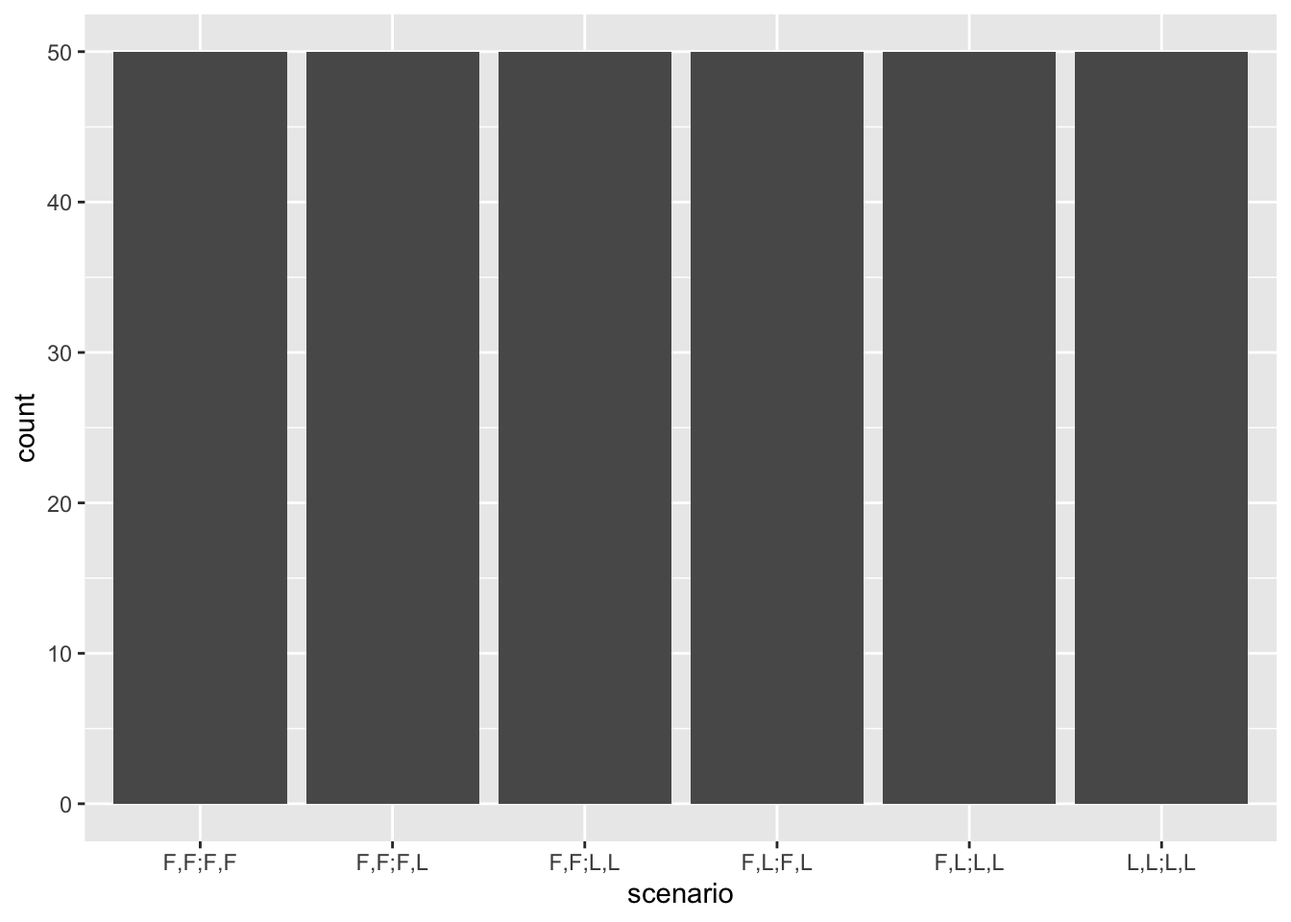
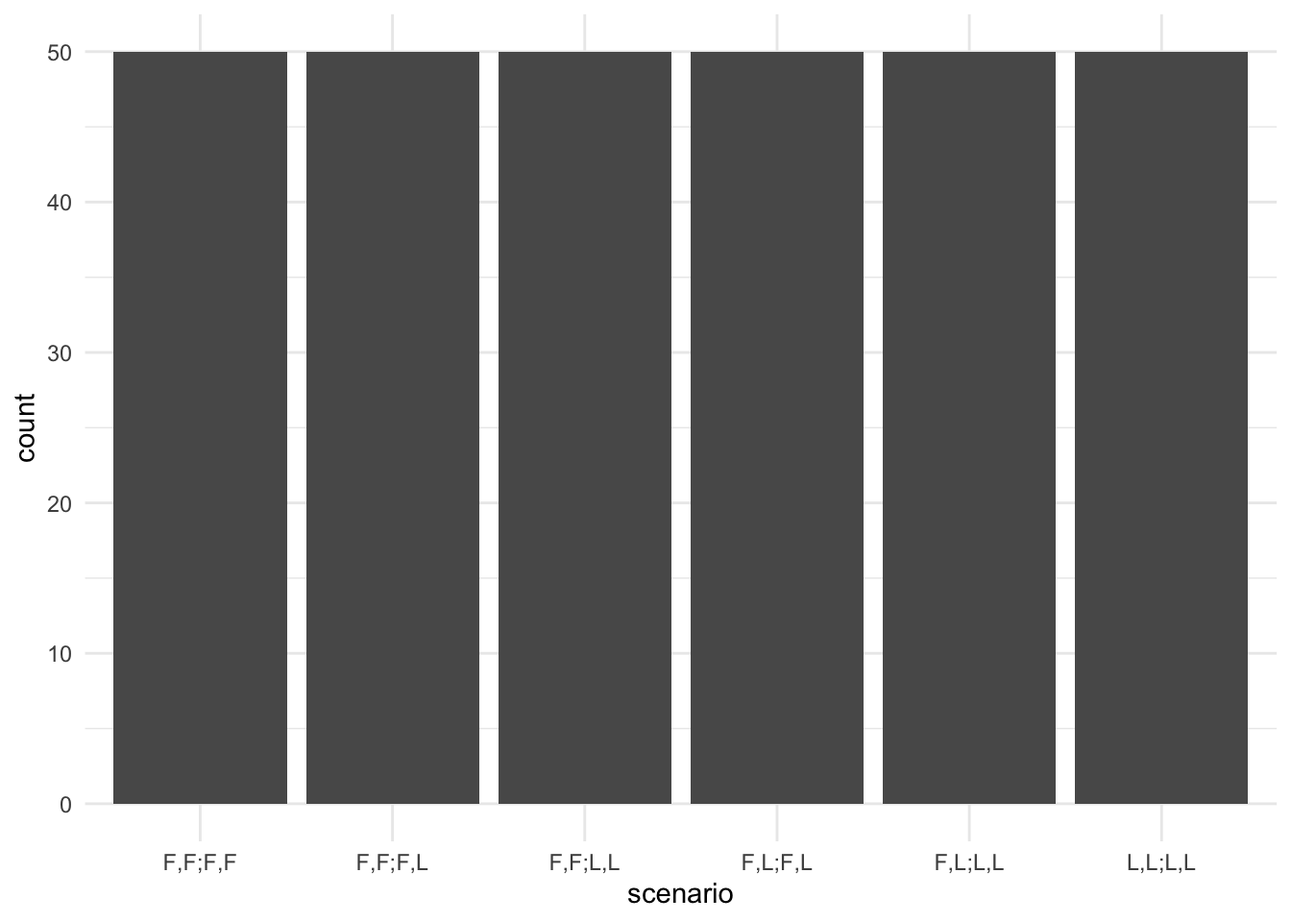
clean writeup renders a bit more, standardizing figure labels

Changed region(s): [[0.0625, 0.0, 1.0, 0.9375]]

diff --git a/_output/writeup/index.html b/_output/writeup/index.html
@@ -333,7 +333,7 @@ Presentation accompanying this report: <a href="https://psyc-201.github.io/xiang
 <span id="cb1-27"><a href="#cb1-27" aria-hidden="true" tabindex="-1"></a>original.cohensd <span class="ot">&lt;-</span> effectsize<span class="sc">::</span><span class="fu">effectsize</span>(original.ttest_result)</span></code></pre></div><button title="Copy to Clipboard" class="code-copy-button"><i class="bi"></i></button></div>
 </details>
 </div>
-<p>The original effect size is <em>d</em> = 1.47. <!-- d = 1.47 --> To achieve 80%, 90%, or 95% power to detect that effect size, I needed:</p>
+<p>The original effect size is <span class="math inline">\(d = 1.47\)</span>. <!-- d = 1.47 --> To achieve 80%, 90%, or 95% power to detect that effect size, I needed:</p>
 <table class="caption-top table">
 <thead>
 <tr class="header">
@@ -361,8 +361,8 @@ Presentation accompanying this report: <a href="https://psyc-201.github.io/xiang
 </tbody>
 </table>
 <p>Collecting 9 participants was completely feasible (with each spending ~16 minutes; see <a href="#procedure">Procedure</a>). To compensate for the original study’s measured effect size being inflated (e.g., due to publication bias), 15 participants would be necessary for sufficient power for the primary effect of interest, and this count was also feasible.</p>
-<p>However, for the sake of qualitatively replicating the overall pattern of estimated probabilities increasing as scenarios feature more successful individual lifts (general increase in probability from left to right in Figure 3C; which I’ve labeled “B” above), and that the joint effort model is the only considered model which captures both the key effect and this pattern, I found it prudent to retain the same sample size so that I might attempt to replicate the original qualitative finding with comparable precision. (Targeting higher precision could potentially counter aforementioned effect inflation present in the original paper, but as it is unclear how to quantify the necessary precision for these qualitative analyses, targeting the original precision appears to be a sensible option.)</p>
-<p>Further, in the original study, given 50 participants, the key effect appeared quite robust, with the CI for the data from scenario “F,F;F,F” being quite far from the line LiftProbability=0 (see <a href="#fig-original-3C" class="quarto-xref">Figure&nbsp;1</a>), suggesting that with 50 participants, I was nearly guaranteed to replicate this effect if it is true.</p>
+<p>However, for the sake of qualitatively replicating the overall pattern of estimated probabilities increasing as scenarios feature more successful individual lifts (general increase in probability from left to right in <a href="#fig-original-3C" class="quarto-xref">Figure&nbsp;2</a>; which I’ve labeled “B” above), and that the joint effort model is the only considered model which captures both the key effect and this pattern, I found it prudent to retain the same sample size so that I might attempt to replicate the original qualitative finding with comparable precision. (Targeting higher precision could potentially counter aforementioned effect inflation present in the original paper, but as it is unclear how to quantify the necessary precision for these qualitative analyses, targeting the original precision appears to be a sensible option.)</p>
+<p>Further, in the original study, given 50 participants, the key effect appeared quite robust, with the CI for the data from scenario “F,F;F,F” being quite far from the line LiftProbability=0 (see <a href="#fig-original-3C" class="quarto-xref">Figure&nbsp;2</a>), suggesting that with 50 participants, I was nearly guaranteed to replicate this effect if it is true.</p>
 <p>Given my understanding of course funding available, collecting 50 participants was feasible.</p>
 </section>
 <section id="planned-sample" class="level3">
@@ -394,9 +394,9 @@ Presentation accompanying this report: <a href="https://psyc-201.github.io/xiang
 </section>
 <section id="analysis-plan" class="level3">
 <h3 class="anchored" data-anchor-id="analysis-plan">Analysis Plan</h3>
-<p>I conducted a <strong>one-sample <em>t</em> test on the participants’ reported round-3 lift probability for scenario “F,F;F,F”</strong> (i.e., each contestant failed to lift the box in both rounds 2 and 3), with the null hypothesis that the true lift probability is zero. See Planned Sample for the data exclusion rule.</p>
+<p>I conducted a <strong>one-sample <span class="math inline">\(t\)</span> test on the participants’ reported round-3 lift probability for scenario “F,F;F,F”</strong> (i.e., each contestant failed to lift the box in both rounds 2 and 3), with the null hypothesis that the true lift probability is zero. See Planned Sample for the data exclusion rule.</p>
 <p>In addition to this confirmatory analysis, I would attempt to replicate the qualitative pattern that participants judge higher probability of joint success as cases of individual success increases. I would also reimplement their proposed model (joint effort) and alternative models (solitary effort and compensatory effort) in <a href="https://github.com/kach/memo">memo</a> <span class="citation" data-cites="chandra2025memo">(<a href="#ref-chandra2025memo" role="doc-biblioref">Chandra et al., 2025</a>)</span> (see <a href="#differences-from-original-study">Differences from Original Study</a>) and attempt to replicate that the proposed model is the only model evaluated which predicts both the qualitative pattern and the other result (that participants estimate round-3 lift probability as non-zero after two rounds of failures). See original paper’s Figure 3C and accompanying explanation, pp.&nbsp;1570-1571; I would recreate that figure and attempt to replicate that explanation on my own data. Further, I would also estimate and statistically test the difference in the probability judgments plotted in Figure 3C between the original data and my new data.</p>
-<p>I must note that while the <em>t</em> test alone does not justify the paper’s central claim that the joint effort model is qualitatively predictive, in the absence one such statistical test, this <em>t</em> test is a good alternative: this test demonstrates one of two key behavioral effects (p.&nbsp;1570) which the model was qualitatively evaluated to predict. (In other words, I should attempt to replicate this behavioral effect before I could try to qualitatively replicate that the joint effort model is the only considered model which can predict it.)</p>
+<p>I must note that while the <span class="math inline">\(t\)</span> test alone does not justify the paper’s central claim that the joint effort model is qualitatively predictive, in the absence one such statistical test, this <span class="math inline">\(t\)</span> test is a good alternative: this test demonstrates one of two key behavioral effects (p.&nbsp;1570) which the model was qualitatively evaluated to predict. (In other words, I should attempt to replicate this behavioral effect before I could try to qualitatively replicate that the joint effort model is the only considered model which can predict it.)</p>
 </section>
 <section id="differences-from-original-study" class="level3">
 <h3 class="anchored" data-anchor-id="differences-from-original-study">Differences from Original Study</h3>
@@ -407,7 +407,7 @@ Presentation accompanying this report: <a href="https://psyc-201.github.io/xiang
 <li>The consent form is updated according to the details provided by the UCSD course PSYC 201A</li>
 <li>In task instructions, “HIT” is renamed “submission”</li>
 <li>In task instructions, “Different pairs of contestants will come in to lift the box” becomes “For each contest, a new pair of contestants will come in to lift the box” (to clarify first two questions of comprehension check)</li>
-<li>See <a href="#sec-method-changes" class="quarto-xref">Section&nbsp;2.8.2</a> for an additional change</li>
+<li>See <a href="#differences-from-pre-data-collection-methods-plan">Differences from pre-data collection methods plan</a> for an additional change</li>
 </ol>
 <p>While the confirmatory analysis was rerun using the original R code provided by the authors, for the qualitative replication I used a reimplementation of the joint effort model and the alternative models (solitary effort and compensatory effort models) in <a href="https://github.com/kach/memo">memo</a> <span class="citation" data-cites="chandra2025memo">(<a href="#ref-chandra2025memo" role="doc-biblioref">Chandra et al., 2025</a>)</span>, based on the authors’ original implementations in WebPPL. I expected that reimplementation of the continuous probabilistic models in WebPPL as discrete probabilistic models in memo would produce higher estimate precision as the model predictions will be deterministic, rather than stochastic. (I also discretized the distribution at a high resolution such that there was no meaningful systematic difference in estimates.)</p>
 <p>I did not anticipate that these differences are meaningful regarding the original paper’s claims and the analyses of interest. However, it is possible that 3 and 4 - improving comprehension-check fairness and reducing testing fatigue - may slightly improve measurement precision and reduce measurement bias, enhancing the claims of my replication.</p>
@@ -426,8 +426,8 @@ Presentation accompanying this report: <a href="https://psyc-201.github.io/xiang
 <p>On Prolific there were 51 participants collected, not 50, since one returned the study but was also approved (since they returned the study, it opened up the slot again). However, we only have 50 participants’ data, since one participant’s data (prolificId starting with 5c6) wasn’t recorded; I think they didn’t press “Next” at the very end of the study, which is necessary to save the data. (In any future iterations, saving should happen before the completion code is given.)</p>
 <p>Demographic information was not collected. By design of the experiment, participants who failed the comprehension check twice were excluded (see below). Following the planned data exclusion rule, 0 <!-- excluded_for_2inattention --> participants were excluded for failing both attention checks. A total of 10 <!-- kept_despite_1inattention --> participants failed one attention check, and we did not exclude their data in our analysis.</p>
 </section>
-<section id="sec-method-changes" class="level4">
-<h4 class="anchored" data-anchor-id="sec-method-changes">Differences from pre-data collection methods plan</h4>
+<section id="differences-from-pre-data-collection-methods-plan" class="level4">
+<h4 class="anchored" data-anchor-id="differences-from-pre-data-collection-methods-plan">Differences from pre-data collection methods plan</h4>
 <p>After piloting, to align with <a href="https://researcher-help.prolific.com/en/articles/445153-prolific-s-attention-and-comprehension-check-policy">Prolific’s guidelines</a>, I modified the task such that no more than two attempts of the comprehension check were allowed. Participants who failed the comprehension check twice were asked to return the submission. Accordingly, before the comprehension check, I added: “You will have two chances to complete the comprehension questions correctly before we ask you to return your submission, per Prolific guidelines.”; and upon comprehension check failure, I added: “Please note that you have only X attempt(s) left.”</p>
 <p>Unless marked otherwise, all results used only the sample collected after this change was made.</p>
 </section>
@@ -774,7 +774,7 @@ Presentation accompanying this report: <a href="https://psyc-201.github.io/xiang
 <span id="cb24-3"><a href="#cb24-3" aria-hidden="true" tabindex="-1"></a>  <span class="fu">filter</span>(agent <span class="sc">==</span> <span class="dv">1</span>, round <span class="sc">==</span> <span class="dv">3</span>) <span class="sc">%&gt;%</span></span>
 <span id="cb24-4"><a href="#cb24-4" aria-hidden="true" tabindex="-1"></a>  <span class="fu">ggplot</span>(<span class="fu">aes</span>(<span class="at">x =</span> scenario, <span class="at">y =</span> contest)) <span class="sc">+</span></span>
 <span id="cb24-5"><a href="#cb24-5" aria-hidden="true" tabindex="-1"></a>  <span class="fu">geom_jitter</span>(<span class="fu">aes</span>(<span class="at">color =</span> subject), <span class="at">width=</span>.<span class="dv">1</span>, <span class="at">height=</span>.<span class="dv">1</span>) <span class="sc">+</span></span>
-<span id="cb24-6"><a href="#cb24-6" aria-hidden="true" tabindex="-1"></a>  <span class="fu">theme</span>(<span class="at">legend.position =</span> <span class="st">"none"</span>)</span></code></pre></div><button title="Copy to Clipboard" class="code-copy-button"><i class="bi"></i></button></div>
+<span id="cb24-6"><a href="#cb24-6" aria-hidden="true" tabindex="-1"></a>  <span class="fu">theme_minimal</span>() <span class="sc">+</span> <span class="fu">theme</span>(<span class="at">legend.position =</span> <span class="st">"none"</span>)</span></code></pre></div><button title="Copy to Clipboard" class="code-copy-button"><i class="bi"></i></button></div>
 </details>
 <div class="cell-output-display">
 <div>
@@ -796,7 +796,7 @@ Presentation accompanying this report: <a href="https://psyc-201.github.io/xiang
 <span id="cb27-2"><a href="#cb27-2" aria-hidden="true" tabindex="-1"></a>  <span class="fu">filter</span>(agent <span class="sc">==</span> <span class="dv">1</span>, round <span class="sc">==</span> <span class="dv">3</span>) <span class="sc">%&gt;%</span></span>
 <span id="cb27-3"><a href="#cb27-3" aria-hidden="true" tabindex="-1"></a>  <span class="fu">ggplot</span>(<span class="fu">aes</span>(<span class="at">x =</span> scenario)) <span class="sc">+</span></span>
 <span id="cb27-4"><a href="#cb27-4" aria-hidden="true" tabindex="-1"></a>  <span class="fu">geom_col</span>(<span class="at">stat=</span><span class="st">"count"</span>) <span class="sc">+</span></span>
-<span id="cb27-5"><a href="#cb27-5" aria-hidden="true" tabindex="-1"></a>  <span class="fu">theme</span>(<span class="at">legend.position =</span> <span class="st">"none"</span>)</span></code></pre></div><button title="Copy to Clipboard" class="code-copy-button"><i class="bi"></i></button></div>
+<span id="cb27-5"><a href="#cb27-5" aria-hidden="true" tabindex="-1"></a>  <span class="fu">theme_minimal</span>() <span class="sc">+</span> <span class="fu">theme</span>(<span class="at">legend.position =</span> <span class="st">"none"</span>)</span></code></pre></div><button title="Copy to Clipboard" class="code-copy-button"><i class="bi"></i></button></div>
 </details>
 <div class="cell-output-display">
 <div>
@@ -819,7 +819,7 @@ Presentation accompanying this report: <a href="https://psyc-201.github.io/xiang
 <span id="cb30-3"><a href="#cb30-3" aria-hidden="true" tabindex="-1"></a>  <span class="fu">mutate</span>(<span class="at">contest =</span> <span class="fu">factor</span>(contest)) <span class="sc">%&gt;%</span></span>
 <span id="cb30-4"><a href="#cb30-4" aria-hidden="true" tabindex="-1"></a>  <span class="fu">ggplot</span>(<span class="fu">aes</span>(<span class="at">x =</span> contest)) <span class="sc">+</span></span>
 <span id="cb30-5"><a href="#cb30-5" aria-hidden="true" tabindex="-1"></a>  <span class="fu">geom_col</span>(<span class="at">stat=</span><span class="st">"count"</span>) <span class="sc">+</span></span>
-<span id="cb30-6"><a href="#cb30-6" aria-hidden="true" tabindex="-1"></a>  <span class="fu">theme</span>(<span class="at">legend.position =</span> <span class="st">"none"</span>)</span></code></pre></div><button title="Copy to Clipboard" class="code-copy-button"><i class="bi"></i></button></div>
+<span id="cb30-6"><a href="#cb30-6" aria-hidden="true" tabindex="-1"></a>  <span class="fu">theme_minimal</span>() <span class="sc">+</span> <span class="fu">theme</span>(<span class="at">legend.position =</span> <span class="st">"none"</span>)</span></code></pre></div><button title="Copy to Clipboard" class="code-copy-button"><i class="bi"></i></button></div>
 </details>
 <div class="cell-output-display">
 <div>
@@ -838,12 +838,12 @@ Presentation accompanying this report: <a href="https://psyc-201.github.io/xiang
 <details class="code-fold">
 <summary>Code</summary>
 <div class="code-copy-outer-scaffold"><div class="sourceCode cell-code" id="cb33"><pre class="sourceCode r code-with-copy"><code class="sourceCode r"><span id="cb33-1"><a href="#cb33-1" aria-hidden="true" tabindex="-1"></a>dat_clean <span class="sc">%&gt;%</span></span>
-<span id="cb33-2"><a href="#cb33-2" aria-hidden="true" tabindex="-1"></a>  <span class="fu">mutate</span>(<span class="at">round =</span> <span class="fu">factor</span>(round)) <span class="sc">%&gt;%</span></span>
+<span id="cb33-2"><a href="#cb33-2" aria-hidden="true" tabindex="-1"></a>  <span class="fu">mutate</span>(<span class="at">round =</span> <span class="fu">factor</span>(round), <span class="at">agent =</span> <span class="fu">factor</span>(agent, <span class="at">labels=</span><span class="fu">c</span>(<span class="st">"Agent A"</span>, <span class="st">"Agent B"</span>))) <span class="sc">%&gt;%</span></span>
 <span id="cb33-3"><a href="#cb33-3" aria-hidden="true" tabindex="-1"></a>  <span class="fu">ggplot</span>(<span class="fu">aes</span>(<span class="at">x =</span> round, <span class="at">y=</span>effort, <span class="at">color=</span>subject, <span class="at">group=</span><span class="dv">1</span>)) <span class="sc">+</span> <span class="co"># set group since needed for geom_smooth to connect across the factor-type x=round</span></span>
 <span id="cb33-4"><a href="#cb33-4" aria-hidden="true" tabindex="-1"></a>  <span class="fu">geom_point</span>() <span class="sc">+</span> <span class="fu">geom_line</span>(<span class="fu">aes</span>(<span class="at">group=</span>subject)) <span class="sc">+</span></span>
 <span id="cb33-5"><a href="#cb33-5" aria-hidden="true" tabindex="-1"></a>  <span class="fu">geom_smooth</span>(<span class="at">method=</span>lm, <span class="at">se=</span>F, <span class="at">color=</span><span class="st">"black"</span>) <span class="sc">+</span></span>
 <span id="cb33-6"><a href="#cb33-6" aria-hidden="true" tabindex="-1"></a>  <span class="fu">facet_wrap</span>(scenario<span class="sc">~</span>agent) <span class="sc">+</span></span>
-<span id="cb33-7"><a href="#cb33-7" aria-hidden="true" tabindex="-1"></a>  <span class="fu">theme</span>(<span class="at">legend.position =</span> <span class="st">"none"</span>)</span></code></pre></div><button title="Copy to Clipboard" class="code-copy-button"><i class="bi"></i></button></div>
+<span id="cb33-7"><a href="#cb33-7" aria-hidden="true" tabindex="-1"></a>  <span class="fu">theme_minimal</span>() <span class="sc">+</span> <span class="fu">theme</span>(<span class="at">legend.position =</span> <span class="st">"none"</span>)</span></code></pre></div><button title="Copy to Clipboard" class="code-copy-button"><i class="bi"></i></button></div>
 </details>
 <div class="cell-output cell-output-stderr">
 <pre><code>`geom_smooth()` using formula = 'y ~ x'</code></pre>
@@ -870,12 +870,12 @@ Presentation accompanying this report: <a href="https://psyc-201.github.io/xiang
 <details class="code-fold">
 <summary>Code</summary>
 <div class="code-copy-outer-scaffold"><div class="sourceCode cell-code" id="cb38"><pre class="sourceCode r code-with-copy"><code class="sourceCode r"><span id="cb38-1"><a href="#cb38-1" aria-hidden="true" tabindex="-1"></a>dat_clean <span class="sc">%&gt;%</span></span>
-<span id="cb38-2"><a href="#cb38-2" aria-hidden="true" tabindex="-1"></a>  <span class="fu">mutate</span>(<span class="at">round =</span> <span class="fu">factor</span>(round)) <span class="sc">%&gt;%</span></span>
+<span id="cb38-2"><a href="#cb38-2" aria-hidden="true" tabindex="-1"></a>  <span class="fu">mutate</span>(<span class="at">round =</span> <span class="fu">factor</span>(round), <span class="at">agent =</span> <span class="fu">factor</span>(agent, <span class="at">labels=</span><span class="fu">c</span>(<span class="st">"Agent A"</span>, <span class="st">"Agent B"</span>))) <span class="sc">%&gt;%</span></span>
 <span id="cb38-3"><a href="#cb38-3" aria-hidden="true" tabindex="-1"></a>  <span class="fu">ggplot</span>(<span class="fu">aes</span>(<span class="at">x =</span> round, <span class="at">y=</span>strength, <span class="at">color=</span>subject, <span class="at">group=</span><span class="dv">1</span>)) <span class="sc">+</span></span>
 <span id="cb38-4"><a href="#cb38-4" aria-hidden="true" tabindex="-1"></a>  <span class="fu">geom_point</span>() <span class="sc">+</span> <span class="fu">geom_line</span>(<span class="fu">aes</span>(<span class="at">group=</span>subject)) <span class="sc">+</span></span>
 <span id="cb38-5"><a href="#cb38-5" aria-hidden="true" tabindex="-1"></a>  <span class="fu">geom_smooth</span>(<span class="at">method=</span>lm, <span class="at">se=</span>F, <span class="at">color=</span><span class="st">"black"</span>) <span class="sc">+</span></span>
 <span id="cb38-6"><a href="#cb38-6" aria-hidden="true" tabindex="-1"></a>  <span class="fu">facet_wrap</span>(scenario<span class="sc">~</span>agent) <span class="sc">+</span></span>
-<span id="cb38-7"><a href="#cb38-7" aria-hidden="true" tabindex="-1"></a>  <span class="fu">theme</span>(<span class="at">legend.position =</span> <span class="st">"none"</span>)</span></code></pre></div><button title="Copy to Clipboard" class="code-copy-button"><i class="bi"></i></button></div>
+<span id="cb38-7"><a href="#cb38-7" aria-hidden="true" tabindex="-1"></a>  <span class="fu">theme_minimal</span>() <span class="sc">+</span> <span class="fu">theme</span>(<span class="at">legend.position =</span> <span class="st">"none"</span>)</span></code></pre></div><button title="Copy to Clipboard" class="code-copy-button"><i class="bi"></i></button></div>
 </details>
 <div class="cell-output cell-output-stderr">
 <pre><code>`geom_smooth()` using formula = 'y ~ x'</code></pre>
@@ -890,12 +890,12 @@ Presentation accompanying this report: <a href="https://psyc-201.github.io/xiang
 <details class="code-fold">
 <summary>Code</summary>
 <div class="code-copy-outer-scaffold"><div class="sourceCode cell-code" id="cb40"><pre class="sourceCode r code-with-copy"><code class="sourceCode r"><span id="cb40-1"><a href="#cb40-1" aria-hidden="true" tabindex="-1"></a>dat_clean <span class="sc">%&gt;%</span></span>
-<span id="cb40-2"><a href="#cb40-2" aria-hidden="true" tabindex="-1"></a>  <span class="fu">mutate</span>(<span class="at">round =</span> <span class="fu">factor</span>(round)) <span class="sc">%&gt;%</span></span>
+<span id="cb40-2"><a href="#cb40-2" aria-hidden="true" tabindex="-1"></a>  <span class="fu">mutate</span>(<span class="at">round =</span> <span class="fu">factor</span>(round), <span class="at">agent =</span> <span class="fu">factor</span>(agent, <span class="at">labels=</span><span class="fu">c</span>(<span class="st">"Agent A"</span>, <span class="st">"Agent B"</span>))) <span class="sc">%&gt;%</span></span>
 <span id="cb40-3"><a href="#cb40-3" aria-hidden="true" tabindex="-1"></a>  <span class="fu">ggplot</span>(<span class="fu">aes</span>(<span class="at">x =</span> round, <span class="at">y=</span>prob, <span class="at">color=</span>subject, <span class="at">group=</span><span class="dv">1</span>)) <span class="sc">+</span></span>
 <span id="cb40-4"><a href="#cb40-4" aria-hidden="true" tabindex="-1"></a>  <span class="fu">geom_point</span>() <span class="sc">+</span> <span class="fu">geom_line</span>(<span class="fu">aes</span>(<span class="at">group=</span>subject)) <span class="sc">+</span></span>
 <span id="cb40-5"><a href="#cb40-5" aria-hidden="true" tabindex="-1"></a>  <span class="fu">geom_smooth</span>(<span class="at">method=</span>lm, <span class="at">se=</span>F, <span class="at">color=</span><span class="st">"black"</span>) <span class="sc">+</span></span>
 <span id="cb40-6"><a href="#cb40-6" aria-hidden="true" tabindex="-1"></a>  <span class="fu">facet_wrap</span>(scenario<span class="sc">~</span>agent) <span class="sc">+</span></span>
-<span id="cb40-7"><a href="#cb40-7" aria-hidden="true" tabindex="-1"></a>  <span class="fu">theme</span>(<span class="at">legend.position =</span> <span class="st">"none"</span>)</span></code></pre></div><button title="Copy to Clipboard" class="code-copy-button"><i class="bi"></i></button></div>
+<span id="cb40-7"><a href="#cb40-7" aria-hidden="true" tabindex="-1"></a>  <span class="fu">theme_minimal</span>() <span class="sc">+</span> <span class="fu">theme</span>(<span class="at">legend.position =</span> <span class="st">"none"</span>)</span></code></pre></div><button title="Copy to Clipboard" class="code-copy-button"><i class="bi"></i></button></div>
 </details>
 <div class="cell-output cell-output-stderr">
 <pre><code>`geom_smooth()` using formula = 'y ~ x'</code></pre>
@@ -1054,8 +1054,7 @@ the `.groups` argument.</code></pre>
 </details>
 </div>
 <p>I found that A) participants rated the probability of joint success in round 3 as non-zero (<span class="math inline">\(M = 43.22\)</span>, 95% CI <span class="math inline">\([33.84, 52.60]\)</span>, <span class="math inline">\(t(49) = 9.26\)</span>, <span class="math inline">\(p &lt; .001\)</span>). See the black point range (data) for scenario “F,F;F,F” under Exploratory analyses.</p>
-<p>The effect size found is <em>d</em> = 1.31.</p>
-<div class="cell">
+<p>The effect size found is <span class="math inline">\(d = 1.31\)</span>.</p>
 <details class="code-fold">
 <summary>Code</summary>
 <div class="code-copy-outer-scaffold"><div class="sourceCode cell-code" id="cb57"><pre class="sourceCode r code-with-copy"><code class="sourceCode r"><span id="cb57-1"><a href="#cb57-1" aria-hidden="true" tabindex="-1"></a><span class="co"># dat$prob[dat$round == 3 &amp; dat$scenario == 'F,F;F,F' &amp; dat$agent == 'A']</span></span>
@@ -1070,8 +1069,12 @@ the `.groups` argument.</code></pre>
 <span id="cb57-10"><a href="#cb57-10" aria-hidden="true" tabindex="-1"></a>    <span class="fu">geom_histogram</span>(<span class="at">bins=</span><span class="fu">floor</span>(<span class="fu">sqrt</span>(<span class="fu">nrow</span>(.)))) <span class="sc">+</span></span>
 <span id="cb57-11"><a href="#cb57-11" aria-hidden="true" tabindex="-1"></a>    <span class="fu">coord_cartesian</span>(<span class="at">xlim =</span> <span class="fu">c</span>(<span class="dv">0</span>, <span class="dv">100</span>)) <span class="sc">+</span></span>
 <span id="cb57-12"><a href="#cb57-12" aria-hidden="true" tabindex="-1"></a>    <span class="fu">geom_vline</span>(<span class="at">xintercept=</span>critical_tvalue, <span class="at">color=</span><span class="st">'red'</span>) <span class="sc">+</span></span>
-<span id="cb57-13"><a href="#cb57-13" aria-hidden="true" tabindex="-1"></a>    <span class="fu">labs</span>(<span class="at">y=</span><span class="st">'Density'</span>, <span class="at">x=</span><span class="st">'Lift probability in Round 3 (%)'</span>)}</span></code></pre></div><button title="Copy to Clipboard" class="code-copy-button"><i class="bi"></i></button></div>
+<span id="cb57-13"><a href="#cb57-13" aria-hidden="true" tabindex="-1"></a>    <span class="fu">theme_minimal</span>() <span class="sc">+</span> <span class="fu">labs</span>(<span class="at">y=</span><span class="st">'Density'</span>, <span class="at">x=</span><span class="st">'Lift probability in Round 3 (%)'</span>)}</span></code></pre></div><button title="Copy to Clipboard" class="code-copy-button"><i class="bi"></i></button></div>
 </details>
+<div id="fig-replication-effectsize" class="quarto-float quarto-figure quarto-figure-center anchored">
+<figure class="quarto-float quarto-float-fig figure">
+<div aria-describedby="fig-replication-effectsize-caption-0ceaefa1-69ba-4598-a22c-09a6ac19f8ca">
+<div class="cell">
 <div class="cell-output-display">
 <div>
 <figure class="figure">
@@ -1080,7 +1083,12 @@ the `.groups` argument.</code></pre>
 </div>
 </div>
 </div>
-<p>The red line shows the critical t-value for detecting a statistically significant effect with α = 0.05.</p>
+</div>
+<figcaption class="quarto-float-caption-bottom quarto-float-caption quarto-float-fig" id="fig-replication-effectsize-caption-0ceaefa1-69ba-4598-a22c-09a6ac19f8ca">
+Figure&nbsp;1: The red line shows the critical <span class="math inline">\(t\)</span> value for detecting a statistically significant effect with <span class="math inline">\(\alpha = 0.05\)</span>.
+</figcaption>
+</figure>
+</div>
 </section>
 <section id="exploratory-analyses" class="level3">
 <h3 class="anchored" data-anchor-id="exploratory-analyses">Exploratory analyses</h3>
@@ -1199,15 +1207,19 @@ the `.groups` argument.</code></pre>
 <img src="./original-fig3c.png" class="img-fluid figure-img">
 </div>
 <figcaption class="quarto-float-caption-bottom quarto-float-caption quarto-float-fig" id="fig-original-3C-caption-0ceaefa1-69ba-4598-a22c-09a6ac19f8ca">
-Figure&nbsp;1: <strong>Original (Figure 3C)</strong>. “Model simulations averaged over 10 runs. Error bars indicate bootstrapped 95% confidence intervals.” (p.&nbsp;1571) Regenerated error bars using a fixed seed.
+Figure&nbsp;2: <strong>Original (Figure 3C)</strong>. “Model simulations averaged over 10 runs. Error bars indicate bootstrapped 95% confidence intervals.” (p.&nbsp;1571) Regenerated error bars using a fixed seed.
 </figcaption>
 </figure>
 </div>
 </div><div class="column">
-<div class="quarto-figure quarto-figure-center">
-<figure class="figure">
-<p><img src="./replication-fig3c.png" class="img-fluid figure-img"></p>
-<figcaption><strong>New (Figure 3C Replication)</strong>. Model simulations consider strengths from 1 to 10 (inclusive) in steps of 0.03 (determined by memory constraints). Error bars indicate bootstrapped 95% confidence intervals.</figcaption>
+<div id="fig-replication-3C" class="quarto-float quarto-figure quarto-figure-center anchored">
+<figure class="quarto-float quarto-float-fig figure">
+<div aria-describedby="fig-replication-3C-caption-0ceaefa1-69ba-4598-a22c-09a6ac19f8ca">
+<img src="./replication-fig3c.png" class="img-fluid figure-img">
+</div>
+<figcaption class="quarto-float-caption-bottom quarto-float-caption quarto-float-fig" id="fig-replication-3C-caption-0ceaefa1-69ba-4598-a22c-09a6ac19f8ca">
+Figure&nbsp;3: <strong>Replication (Figure 3C)</strong>. Model simulations consider strengths from 1 to 10 (inclusive) in steps of 0.03 (determined by memory constraints). Error bars indicate bootstrapped 95% confidence intervals.
+</figcaption>
 </figure>
 </div>
 </div>
@@ -1224,10 +1236,14 @@ Figure&nbsp;1: <strong>Original (Figure 3C)</strong>. “Model simulations avera
 </div>
 <div id="callout-3" class="callout-3-contents callout-collapse collapse">
 <div class="callout-body-container callout-body">
-<div class="quarto-figure quarto-figure-center">
-<figure class="figure">
-<p><img src="./replication-fig3c-withrawdata.png" class="img-fluid figure-img"></p>
-<figcaption>Figure 3C Replication with Raw Data</figcaption>
+<div id="fig-rawdata" class="quarto-float quarto-figure quarto-figure-center anchored">
+<figure class="quarto-float quarto-float-fig figure">
+<div aria-describedby="fig-rawdata-caption-0ceaefa1-69ba-4598-a22c-09a6ac19f8ca">
+<img src="./replication-fig3c-withrawdata.png" class="img-fluid figure-img">
+</div>
+<figcaption class="quarto-float-caption-bottom quarto-float-caption quarto-float-fig" id="fig-rawdata-caption-0ceaefa1-69ba-4598-a22c-09a6ac19f8ca">
+Figure&nbsp;4: Figure 3C Replication with Raw Data
+</figcaption>
 </figure>
 </div>
 </div>
@@ -1251,7 +1267,7 @@ Figure&nbsp;1: <strong>Original (Figure 3C)</strong>. “Model simulations avera
 <img src="./replication-fig3c-withsafejoint.png" class="img-fluid figure-img">
 </div>
 <figcaption class="quarto-float-caption-bottom quarto-float-caption quarto-float-fig" id="fig-safejoint-caption-0ceaefa1-69ba-4598-a22c-09a6ac19f8ca">
-Figure&nbsp;2: Figure 3C Replication with Safe Joint Model
+Figure&nbsp;5: Figure 3C Replication with Safe Joint Model
 </figcaption>
 </figure>
 </div>
@@ -1269,7 +1285,7 @@ Figure&nbsp;2: Figure 3C Replication with Safe Joint Model
 <section id="commentary" class="level3">
 <h3 class="anchored" data-anchor-id="commentary">Commentary</h3>
 <p>Replication success was expected due to the large effect size and clear qualitative pattern. However, the replication success of the confirmatory result nevertheless reinforces my confidence in the reliability of the task paradigm, and the replication of the qualitative pattern using a model reimplementation reinforces my confidence in both that pattern and the modeling approach.</p>
-<p>In my replication, I observed slightly larger CIs, and an effect size that was lower than the original. However, these may be expected due to publication bias. Further, I observed a slope inversion in the data means (i.e., estimated probability of round 3 succcess is lower for F,L;F,L than for F,F;F,L) which was not present in the data from the original study. Speculatively, this might be explainable by the safe joint effort model (see <a href="#fig-safejoint" class="quarto-xref">Figure&nbsp;2</a>), a modified version of the authors’ proposed joint effort model available in their supplement. In this case, the replication provides some support for that modified model.</p>
+<p>In my replication, I observed slightly larger CIs, and an effect size that was lower than the original. However, these may be expected due to publication bias. Further, I observed a slope inversion in the data means (i.e., estimated probability of round 3 succcess is lower for F,L;F,L than for F,F;F,L) which was not present in the data from the original study. Speculatively, this might be explainable by the safe joint effort model (see <a href="#fig-safejoint" class="quarto-xref">Figure&nbsp;5</a>), a modified version of the authors’ proposed joint effort model available in their supplement. In this case, the replication provides some support for that modified model.</p>
 </section>
 </section>
 <section id="references" class="level2">
